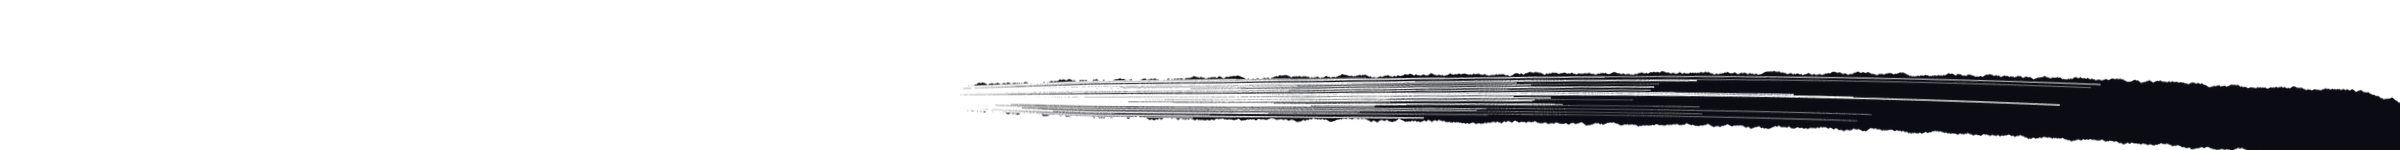
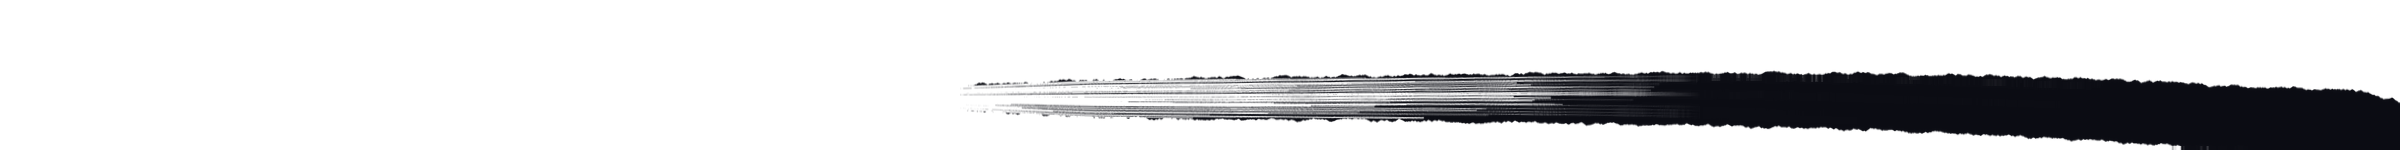
Главная: верх чёрных блоков ровный; подвал дорисовывается в конце страницы; убран просвет в мазке подвала
Claude-Session: https://claude.ai/code/session_01FwFHJAc2ynRLd7AafXaBTx

diff --git a/js/morin.js b/js/morin.js
@@ -208,7 +208,8 @@ window.MORIN={seg7,countdown,left,PRODUCTS,byId,rub,$,$$,card,add,toast,save,cou
   const placeUnder=el=>{const u=unders.get(el);if(!u)return;const par=el.offsetParent;if(!par)return;const r=el.getBoundingClientRect(),pr=par.getBoundingClientRect();
     const top=r.top-pr.top,h=Math.max(0,Math.min(r.bottom,pr.top)-r.top);u.style.cssText=`position:absolute;left:0;width:100%;top:${top}px;height:${h+1}px;z-index:2;pointer-events:none;background:var(--bone) url(img/washi.jpg) center/900px;transition:opacity .35s`};
   addEventListener('resize',()=>unders.forEach((u,el)=>placeUnder(el)));
-  const draw=el=>{el.classList.add('is-drawn');const u=unders.get(el);if(u){const end=()=>{u.style.opacity=0;setTimeout(()=>u.remove(),400);unders.delete(el)};el.addEventListener('transitionend',end,{once:true});setTimeout(()=>unders.has(el)&&end(),2200)}};
+  const pend=new Set();
+  const draw=el=>{pend.delete(el);el.classList.add('is-drawn');const u=unders.get(el);if(u){const end=()=>{u.style.opacity=0;setTimeout(()=>u.remove(),400);unders.delete(el)};el.addEventListener('transitionend',end,{once:true});setTimeout(()=>unders.has(el)&&end(),2200)}};
   const io=new IntersectionObserver(es=>es.forEach(e=>{if(!e.isIntersecting)return;io.unobserve(e.target);draw(e.target)}),{rootMargin:'0px 0px -22% 0px',threshold:.2});
   // печати: очередь, ставятся по одной — тум-тум-тум
   const q=[];let busy=false;
@@ -217,11 +218,14 @@ window.MORIN={seg7,countdown,left,PRODUCTS,byId,rub,$,$$,card,add,toast,save,cou
     vis.sort((x,y)=>{const a=x.getBoundingClientRect(),b=y.getBoundingClientRect();return (a.top-b.top)||(a.left-b.left)});q.push(...vis);if(!busy)setTimeout(play,150)},{rootMargin:'0px 0px -15% 0px',threshold:.6});
   const STAMP='.gentei,.drop__photo .stamp,.notes__seal,.acc__seal,.done__seal';
   const scan=root=>{
-    root.querySelectorAll('.pline,.tear,.foot-stroke').forEach(el=>{if(el.dataset.a)return;el.dataset.a=1;if(el.matches('.pline--hero'))return;if(el.matches('.pline--top')){const u=document.createElement('span');u.setAttribute('aria-hidden','true');el.before(u);unders.set(el,u);placeUnder(el)}io.observe(el)});
+    root.querySelectorAll('.pline,.tear,.foot-stroke').forEach(el=>{if(el.dataset.a)return;el.dataset.a=1;if(el.matches('.pline--hero'))return;if(el.matches('.pline--top')){const u=document.createElement('span');u.setAttribute('aria-hidden','true');el.before(u);unders.set(el,u);placeUnder(el)}pend.add(el);io.observe(el)});
     root.querySelectorAll(STAMP).forEach(el=>{if(el.dataset.a)return;el.dataset.a=1;el.classList.add('js-stamp');so.observe(el)});
   };
   scan(document);
   new MutationObserver(ms=>ms.forEach(m=>m.addedNodes.forEach(n=>{if(n.nodeType===1&&n.querySelectorAll)scan(n)}))).observe(document.body,{childList:true,subtree:true});
+  // конец страницы: края, которые уже не доедут до нижней трети экрана (подвал), дорисовываются сразу
+  const atEnd=()=>{if(innerHeight+scrollY<document.documentElement.scrollHeight-4)return;pend.forEach(el=>{const r=el.getBoundingClientRect();if(r.top<innerHeight&&r.bottom>0){io.unobserve(el);draw(el)}})};
+  addEventListener('scroll',atEnd,{passive:true});addEventListener('load',atEnd);
   // мазок под первым экраном рисуется после загрузки
   const hb=document.querySelector('.pline--hero');if(hb)setTimeout(()=>hb.classList.add('is-drawn'),700);
 

diff --git a/index.html b/index.html
@@ -60,7 +60,6 @@
   <!-- ЭКРАН 2 -->
   <section class="paper t-tear b-tear" id="collection" aria-labelledby="col-h">
     <span class="pline pline--hero" aria-hidden="true"></span>
-    <span class="tear tear--bottom" aria-hidden="true"></span>
     <div class="wrap col">
       <div class="col__head">
         <div>
@@ -104,7 +103,6 @@
   <!-- ФОРМА -->
   <section class="paper form-sec t-tear b-tear" id="silhouette" aria-labelledby="form-h">
     <span class="pline pline--top pline--mirror" aria-hidden="true"></span>
-    <span class="tear tear--bottom" aria-hidden="true"></span>
     <div class="wrap col">
       <div class="col__head">
         <div>
@@ -141,7 +139,6 @@
   <!-- БЭКСТЕЙДЖ (тихо) -->
   <section class="paper t-tear b-tear" id="backstage" aria-labelledby="bs-h">
     <span class="pline pline--top" aria-hidden="true"></span>
-    <span class="tear tear--bottom" aria-hidden="true"></span>
     <div class="wrap col">
       <div class="col__head">
         <div>
@@ -168,7 +165,6 @@
   <!-- FAQ (тихо) -->
   <section class="paper t-tear b-tear" id="faq" aria-labelledby="faq-h">
     <span class="pline pline--top pline--mirror" aria-hidden="true"></span>
-    <span class="tear tear--bottom" aria-hidden="true"></span>
     <div class="wrap col faq">
       <h2 id="faq-h">Вопросы</h2>
       <div class="faq__list">
